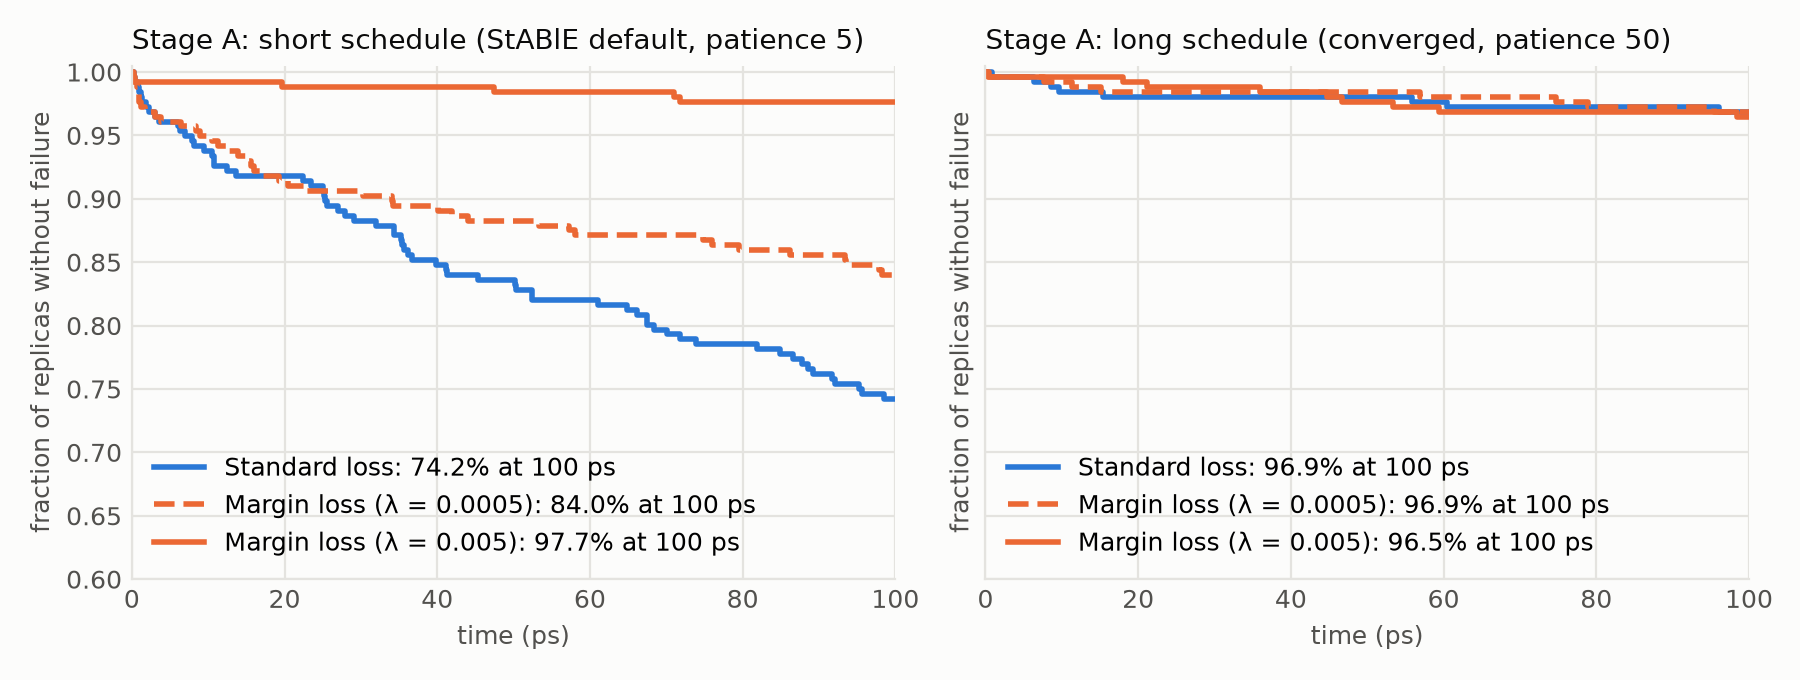
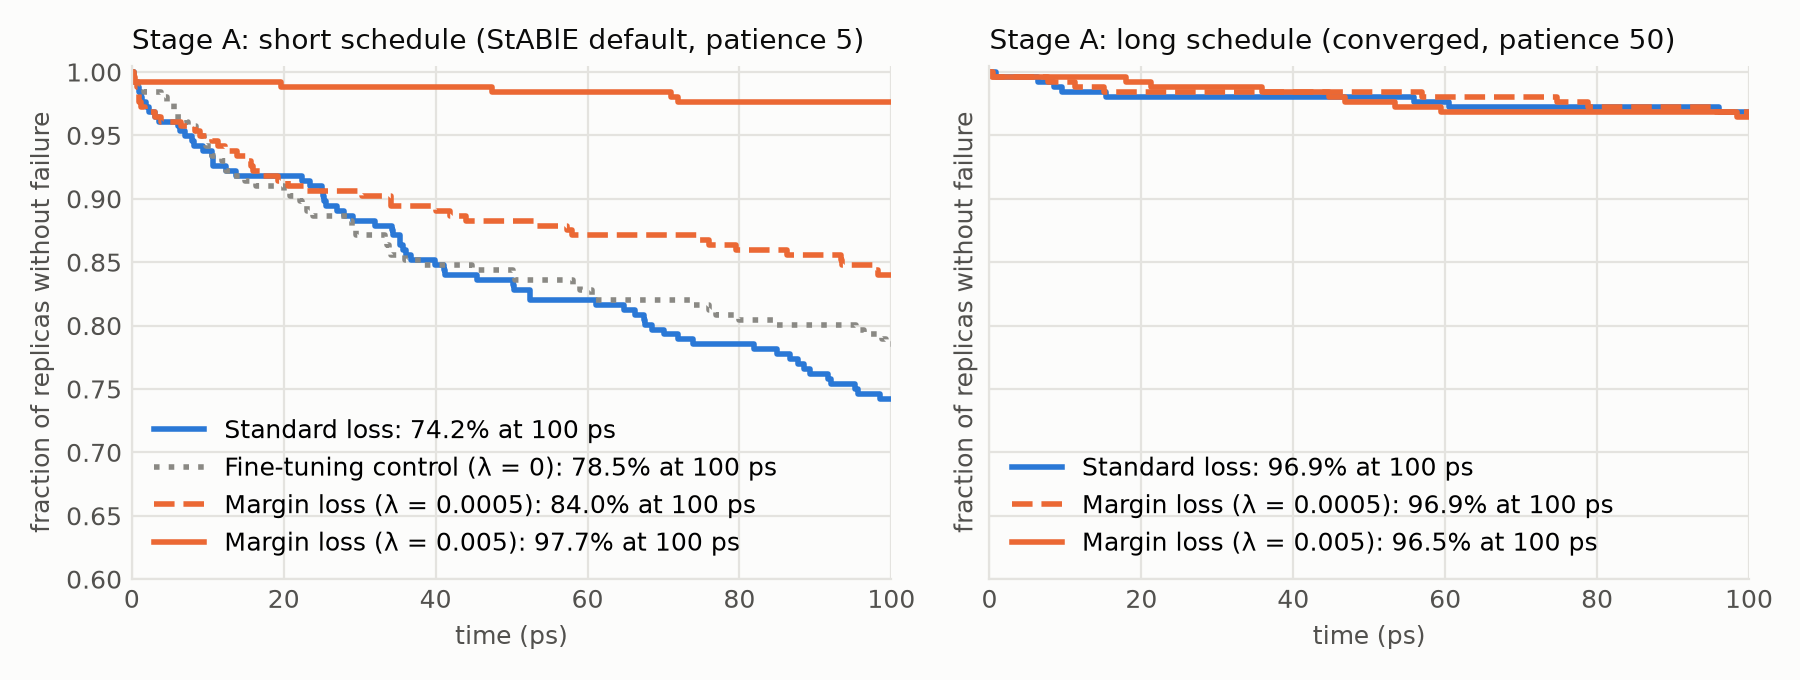
Milestone: add the lambda = 0 control (55/256 failures vs 6 with the margin term)

diff --git a/docs/milestone/README.md b/docs/milestone/README.md
@@ -28,12 +28,17 @@ Everything here is one molecule, one architecture, one seed, 100 ps. Treat it as
 On the short-schedule model (the one with real instability), Stage B with the margin loss cut failures
 within 100 ps from 66/256 to 41/256 (λ = 0.0005) and to 6/256 (λ = 0.005), with test force MAE unchanged
 (53.3 → 52.0 and 53.0 meV/Å). Two-proportion z-test against the standard-loss model: p = 0.007 and
-p < 1e-10. On the long-schedule model, which fails 8/256 to begin with, the margin loss changed nothing
+p < 1e-10 (against the control below: p = 0.11 and p < 1e-10). On the long-schedule model, which fails 8/256 to begin with, the margin loss changed nothing
 (8 and 9 failures) and λ = 0.005 cost 11% in force MAE.
 
-Not yet ruled out: Stage B also adds 1,500 ordinary gradient steps to an underfit model. A control with
-the margin term off (λ = 0, same steps) is `p5_control_lam0` in `milestone.py`; it appears in the table
-once it has been fetched. Single seed, and all runs share the same 256 starting frames.
+**Control.** Stage B also adds 1,500 ordinary gradient steps to an underfit model, so we ran the same
+Stage B with the margin term off (λ = 0). It leaves 55/256 failures: not distinguishable from the
+standard-loss model's 66 (p = 0.25), and far above the 6 with λ = 0.005 (p < 1e-10). In its training
+rollouts the failing fraction did not fall (5.5%, 10.2%, 11.7% per cycle; with λ = 0.005: 8.6%, 2.3%,
+2.3%). So the improvement at λ = 0.005 comes from the margin term, not from the extra training. The
+smaller weight is weaker evidence: 41 failures against the control's 55 is p = 0.11.
+
+Single seed, and all runs share the same 256 starting frames.
 
 ## Why the converged model shows no difference (low signal, not a null result)
 

diff --git a/docs/milestone/results.md b/docs/milestone/results.md
@@ -5,6 +5,7 @@ Generated by `python scripts/analysis/milestone.py plot` from `docs/milestone/da
 | Stage A schedule | Loss | Force MAE (meV/Å) | Energy MAE (meV) | Stable at 100 ps | Failed / 256 | Mean τ (ps, capped at 100) | h(r) MAE | Dihedral F MAE (kcal/mol) | NVE drift (meV/atom/ps) |
 |---|---|---|---|---|---|---|---|---|---|
 | short schedule (StABlE default, patience 5) | Standard loss | 53.3 | n/a¹ | 74.2% | 66 | 84.4 | 0.104 | 0.54 | 0.046 |
+| short schedule (StABlE default, patience 5) | Fine-tuning control (λ = 0) | 51.9 | 19.4 | 78.5% | 55 | 85.6 | 0.106 | 0.50 | 0.056 |
 | short schedule (StABlE default, patience 5) | Margin loss (λ = 0.0005) | 52.0 | 19.7 | 84.0% | 41 | 89.1 | 0.106 | 0.51 | 0.052 |
 | short schedule (StABlE default, patience 5) | Margin loss (λ = 0.005) | 53.0 | 20.1 | 97.7% | 6 | 98.5 | 0.105 | 0.54 | 0.040 |
 | long schedule (converged, patience 50) | Standard loss | 19.1 | n/a¹ | 96.9% | 8 | 97.9 | 0.112 | 0.56 | 0.082 |
